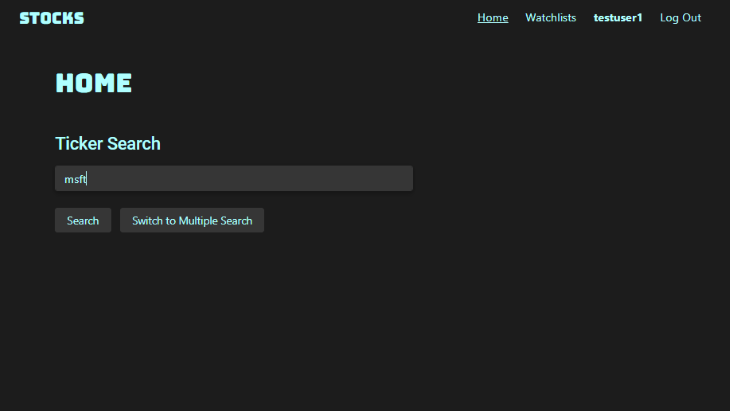
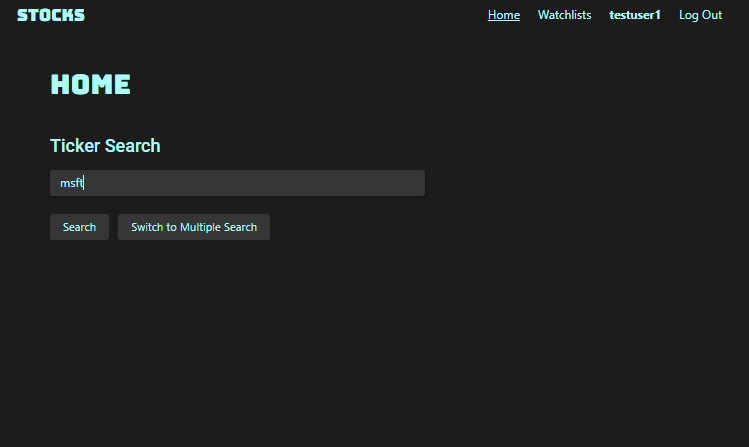
replace screenshots with clearer images for readme

diff --git a/README.md b/README.md
@@ -40,8 +40,9 @@
 - Database hosted on `Supabase`
 
 ![Database schema diagram](schema/db_schema.PNG)
-
 *App database schema diagram in Supabase*
+
+---
 
 Submitted on 2023-01-28 to fulfill the requirements of Capstone 1 project for Springboard's Software Engineering Career Track.
 
